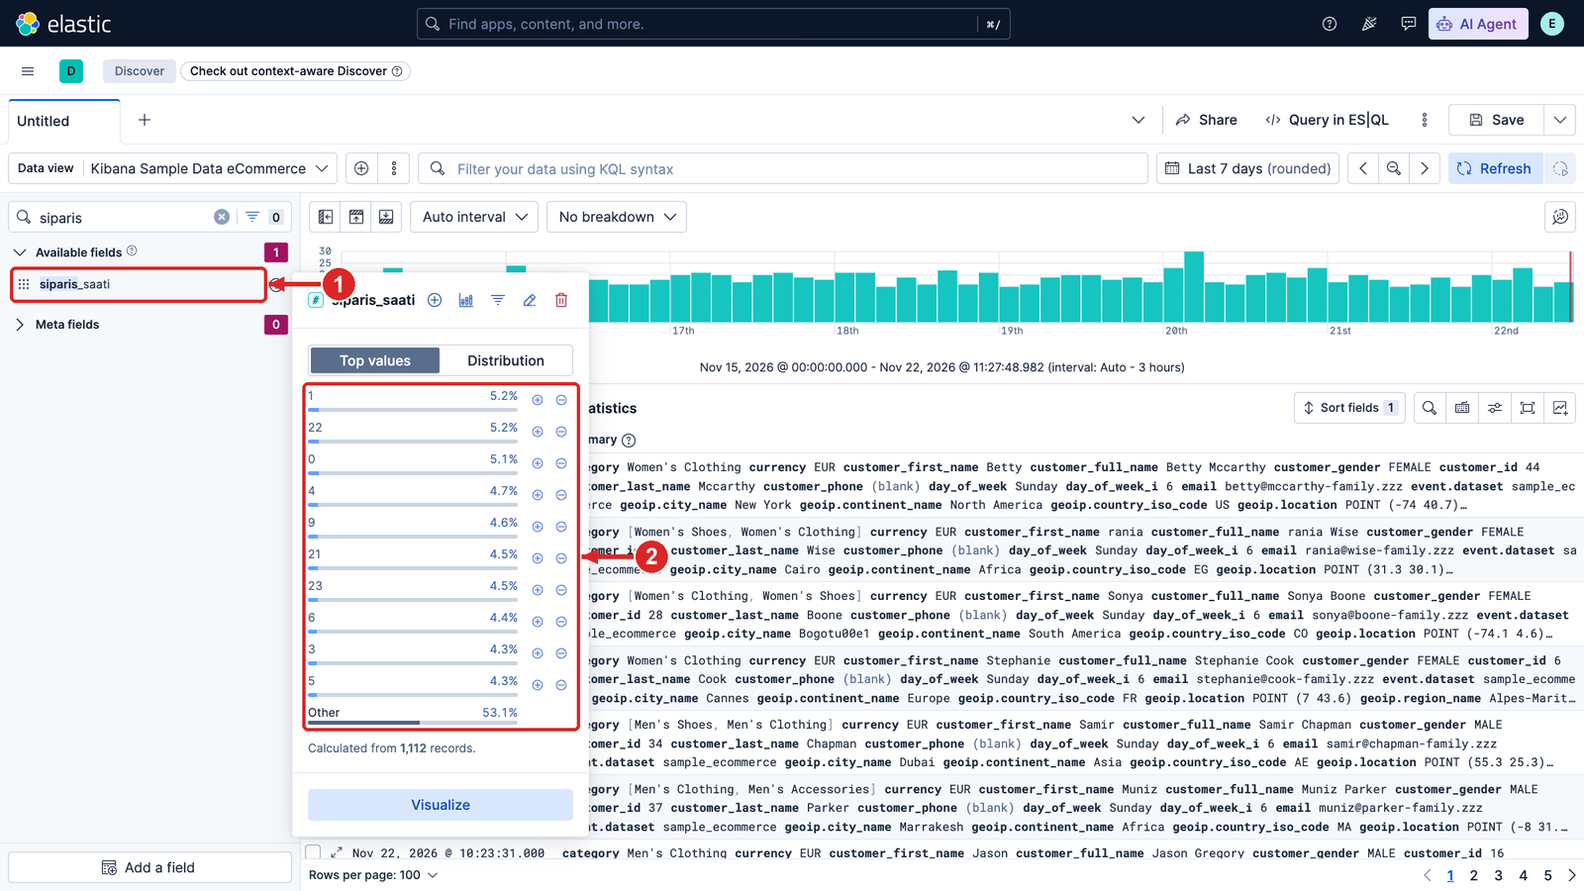
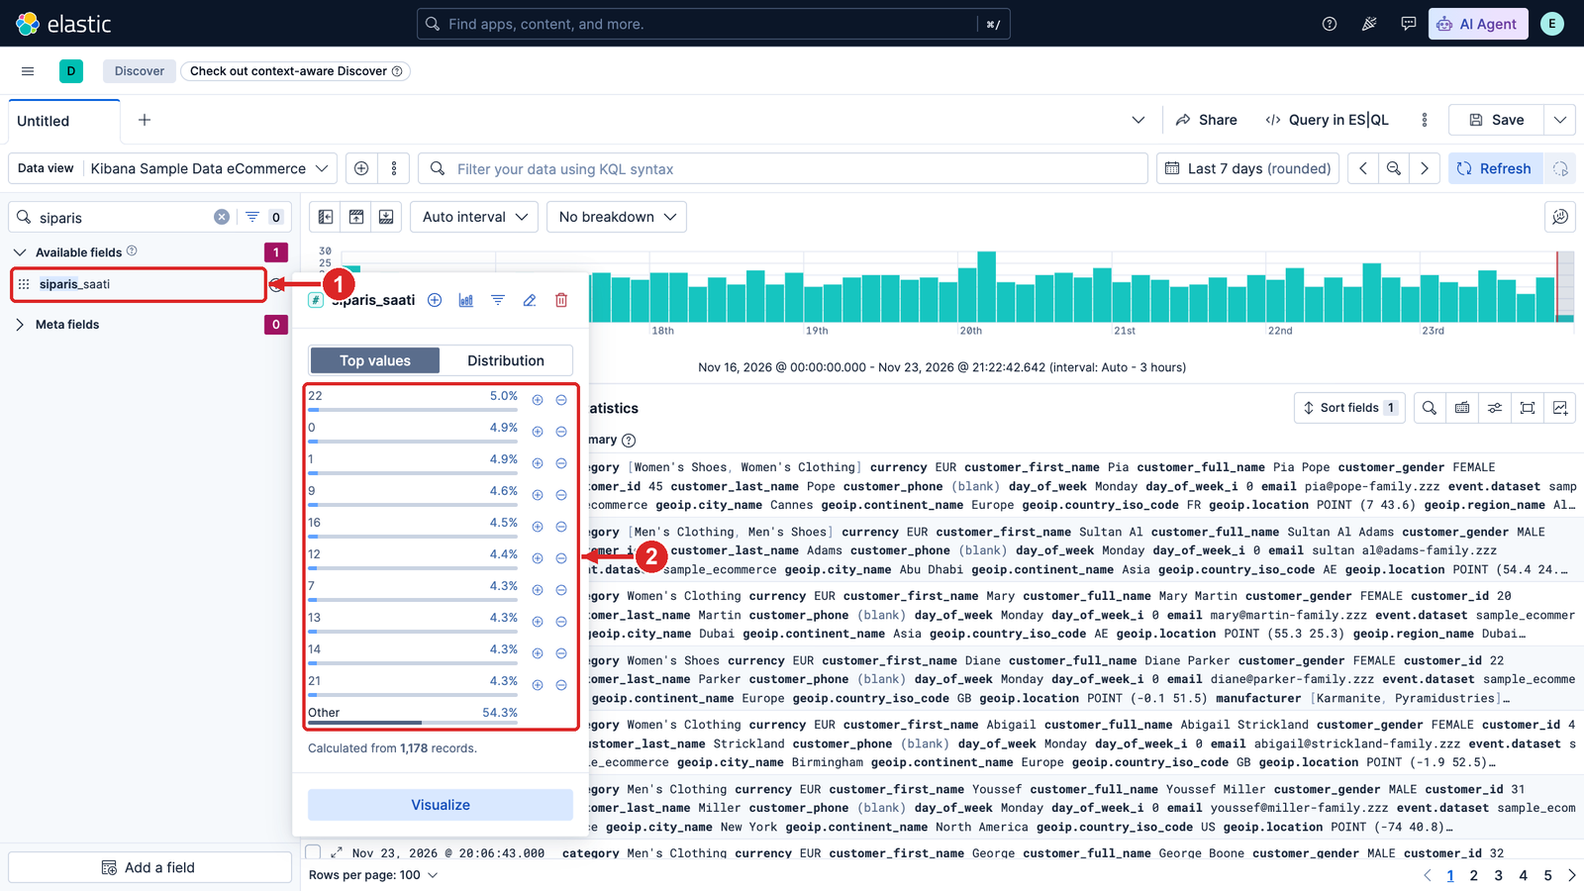
docs+test(LAB-07): question-led steps; three more Lens panels for the dashboard
- README in the same layout as LAB-02..06: five-item intro, concept bullets
  (no table), every step opens with a question, short bold items.
  "kova" replaced with bucket.
- Step 4: new collapsible box "Panoya üç panel daha": Günlük ciro (Line,
  date histogram order_date, Sum taxful_total_price), Ortalama sepet (Metric,
  Average), Cinsiyete göre sipariş (Pie, Top values customer_gender, Count),
  each added from the dashboard via Add > Visualization and Save to library,
  then the dashboard saved with four panels. Four new marked screenshots.
- teardown.sh also deletes the three library Lens objects; README cleanup
  output updated with the real output and a note on optional lines.
- kibana_shots.py: new flow lab07ek; works whether the dashboard opens in
  view or edit mode.

Checked: readme_komut_denetimi AYNI (18/18); link_kontrol 0; README rendered
with the GitHub markdown API (boxes opened) and read.
Test on 34.141.96.128: new teardown run (dashboard + 3 lens + runtime field
+ data view + index -> 200), then README runner PASS=12 FAIL=0, then UI flows
in README order: lab07 (Lens, breakdown, save, dashboard), lab07ek (3 panels,
dashboard panel count 4), lab07canli (auto refresh on, 897 hits),
lab07runtime (siparis_saati). Twelve screenshots retaken. Lab left installed.

diff --git a/scripts/screenshots/kibana_shots.py b/scripts/screenshots/kibana_shots.py
@@ -1328,7 +1328,73 @@ def lab18_pdf(page):
 
 
 # Yeni numarali lab akislari; "eski_" ile baslayanlar yeniden yazilacak eski lablarin kaynagidir.
-FLOWS = {"sunum": sunum, "lab01": lab01, "lab02": lab02, "lab04": lab04, "lab07": lab07, "lab07canli": lab07canli, "lab07runtime": lab07runtime, "lab21": lab21,
+
+def lab07ek(page):
+    """LAB-07 Adim 4 ek ornekler: Satis ozeti panosuna Lens ile uc panel (cizgi, metric, pasta)."""
+    lab = "LAB-07"
+    page.goto(BASE + "/app/dashboards#/list", wait_until="domcontentloaded"); settle(page, 5)
+    page.get_by_text("Satış özeti", exact=True).first.click(); settle(page, 6)
+    page.locator('[data-test-subj="dateRangePickerControlButton"], [data-test-subj="superDatePickerShowDatesButton"]').first.click(); time.sleep(1.5)
+    page.locator('[data-test-subj="dateRangePickerPresetItem-Last_7_days"], [data-test-subj="superDatePickerCommonlyUsed_Last_7 days"]').first.click(); settle(page, 4)
+    if not page.locator('[data-test-subj="dashboardAddTopNavButton"]').count():  # pano zaten duzenleme modunda olabilir
+        page.locator('[data-test-subj="dashboardEditMode"]').first.click(timeout=15000); settle(page, 3)
+
+    def yeni_panel():
+        page.locator('[data-test-subj="dashboardAddTopNavButton"]').first.click(); time.sleep(2)
+        page.locator('[data-test-subj="create-action-Visualization"]').first.click(); settle(page, 8)
+        for txt in ("Don't show again", "Got it", "Dismiss"):
+            try: page.get_by_text(txt).first.click(timeout=1200)
+            except Exception: pass
+
+    def tur(ad):
+        page.locator('[data-test-subj="lnsChartSwitchPopover"]').first.click(); time.sleep(1.5)
+        page.locator(f'[data-test-subj="lnsChartSwitchPopover_{ad}"]').first.click(); time.sleep(3)
+
+    def boyut(panel, islem, field):
+        page.locator(f'[data-test-subj="{panel}"] [data-test-subj="lns-empty-dimension"]').first.click(); time.sleep(2)
+        page.locator(f'[data-test-subj="lns-indexPatternDimension-{islem}"]').first.click(); time.sleep(1.5)
+        if field:
+            cb = page.locator('[data-test-subj="indexPattern-dimension-field"] input').first
+            cb.click(); cb.fill(field); time.sleep(1); page.keyboard.press("Enter"); time.sleep(3)
+        page.locator('[data-test-subj="lns-indexPattern-dimensionContainerBack"]').first.click(); settle(page, 4)
+
+    def kaydet(baslik, ad, isaretler):
+        page.mouse.move(800, 60); time.sleep(1)
+        shoot(page, lab, ad, isaretler + [(("testsubj", "lnsApp_saveButton"), len(isaretler) + 1, "down")])
+        page.locator('[data-test-subj="lnsApp_saveButton"]').first.click(); time.sleep(2)
+        page.locator('[data-test-subj="savedObjectTitle"]').fill(baslik)
+        page.locator('[data-test-subj="confirmSaveSavedObjectButton"]').first.click(); settle(page, 8)
+
+    # a) Gunluk ciro: cizgi grafik
+    yeni_panel(); tur("line")
+    boyut("lnsXY_xDimensionPanel", "date_histogram", "order_date")
+    boyut("lnsXY_yDimensionPanel", "sum", "taxful_total_price")
+    kaydet("Günlük ciro", "08-lens-gunluk-ciro", [
+        (("testsubj", "lnsChartSwitchPopover"), 1, "down"),
+        (("testsubj", "lnsXY_xDimensionPanel"), 2, "left"),
+        (("testsubj", "lnsXY_yDimensionPanel"), 3, "left")])
+    # b) Ortalama sepet: metric
+    yeni_panel(); tur("lnsMetric")
+    boyut("lnsMetric_primaryMetricDimensionPanel", "average", "taxful_total_price")
+    kaydet("Ortalama sepet", "09-lens-ortalama-sepet", [
+        (("testsubj", "lnsChartSwitchPopover"), 1, "down"),
+        (("testsubj", "lnsMetric_primaryMetricDimensionPanel"), 2, "left")])
+    # c) Cinsiyete gore siparis: pasta
+    yeni_panel(); tur("pie")
+    boyut("lnsPie_sliceByDimensionPanel", "terms", "customer_gender")
+    boyut("lnsPie_sizeByDimensionPanel", "count", None)
+    kaydet("Cinsiyete göre sipariş", "10-lens-cinsiyet-pasta", [
+        (("testsubj", "lnsChartSwitchPopover"), 1, "down"),
+        (("testsubj", "lnsPie_sliceByDimensionPanel"), 2, "left"),
+        (("testsubj", "lnsPie_sizeByDimensionPanel"), 3, "left")])
+    # Pano: dort panel, kaydet
+    page.locator('[data-test-subj="dashboardQuickSaveMenuItem"]').first.click(); settle(page, 5)
+    page.mouse.move(800, 60); time.sleep(1)
+    n = page.locator('[data-test-subj="dashboardPanel"]').count()
+    print("panel sayisi:", n)
+    shoot(page, lab, "11-pano-dort-panel", [(("css", '[data-test-subj="dashboardPanel"]'), 1, "right")])
+
+FLOWS = {"sunum": sunum, "lab01": lab01, "lab02": lab02, "lab04": lab04, "lab07": lab07, "lab07canli": lab07canli, "lab07runtime": lab07runtime, "lab07ek": lab07ek, "lab21": lab21,
          "lab14": lab14, "lab10": lab10, "lab12_upload": lab12_upload, "lab16": lab16, "lab16_2": lambda page: lab16(page, "2"), "lab16_pano": lab16_pano, "lab16_kaydet": lab16_kaydet, "lab24_izleme": lab24_izleme, "lab14_ingest_arayuz": lab14_ingest_arayuz, "lab18_harita": lab18_harita, "lab27": lab27, "lab27_pano": lambda page: lab27(page, "pano"), "lab27_mailpit": lambda page: lab27(page, "mailpit"), "lab27_connector": lambda page: lab27(page, "connector"), "lab27_pdf": lambda page: lab27(page, "pdf"), "lab18_kural": lab18_kural, "lab18_aktif": lab18_aktif, "lab18_rapor": lab18_rapor, "lab18_pdf": lab18_pdf, "eski_lab04": eski_lab04, "eski_alarm": eski_alarm, "eski_fleet": eski_fleet,
          "eski_3node": eski_3node}
 

diff --git a/labs/LAB-07-aggregation-lens/README.md b/labs/LAB-07-aggregation-lens/README.md
@@ -8,11 +8,11 @@
 
 ## Bu lab ne öğretiyor?
 
-Arama "hangi document'ler?" sorusunu cevaplar; rapor ise "kaç tane, toplam ne kadar, hangi grupta,
-hangi gün?" diye sorar. Elasticsearch bu soruları document'leri tek tek döndürmeden, aggregation ile
-hesaplar. Bu labda aynı e-ticaret verisinde ciro, kategori bazında ortalama sepet ve günlük satış
-çıkaracak; bir e-ticaret sitesindeki filtre panelini kuracak ve sonucu Lens ile bir panoya koyacağız.
-Son iki adımda canlı bir sipariş akışını son 15 dakikada izleyecek ve veriyi panoya hazırlayacağız.
+- Tek sayılar: ciro, ortalama sepet, farklı müşteri (metric aggregation)
+- Gruplamak: kategori ve gün bazında (bucket ve iç içe aggregation)
+- E-ticaret filtre paneli: `post_filter`
+- Lens ile grafik ve pano
+- Gerçek zamanlı izleme; pano için veri hazırlama (runtime field)
 
 ---
 
@@ -28,15 +28,13 @@ cd ~/elastic/labs/LAB-07-aggregation-lens
 
 ---
 
-## Kavramlar: iki tür aggregation
+## Kavramlar
 
-| Tür | Ne yapar | Örnek |
-|---|---|---|
-| Metric | Bir sayı hesaplar | `sum` (toplam), `avg` (ortalama), `cardinality` (farklı değer sayısı) |
-| Bucket | Document'leri gruplara (bucket) ayırır | `terms` (değere göre), `date_histogram` (zamana göre), `range` (aralığa göre) |
-
-Bucket'ların içine metric konur: "her kategori için ortalama sepet". Aggregation `keyword`, sayı ve
-tarih field'larında çalışır; `text` field'ında çalışmaz, çünkü metin token'lara bölünmüştür ve bütün değer tek parça olarak saklanmaz.
+- **aggregation:** document'leri tek tek döndürmeden hesap yapar: kaç tane, toplam, hangi grupta
+- **metric:** bir sayı hesaplar: `sum` (toplam), `avg` (ortalama), `cardinality` (farklı değer sayısı)
+- **bucket:** document'leri gruplara ayırır: `terms` (değere göre), `date_histogram` (zamana göre)
+- **iç içe:** bucket'ın içine metric konur: "her kategori için ortalama sepet"
+- **hangi field?** `keyword`, sayı, tarih; `text` field'da çalışmaz (metin token'lara bölünmüştür)
 
 ---
 
@@ -46,8 +44,8 @@ Bu labda `http` bloklarını Kibana › Dev Tools'a, `bash` bloklarını termina
 
 ### 1. Tek sayılar: metric aggregation
 
-Toplam ciro, ortalama sepet ve kaç farklı müşteri olduğu. `size: 0` document listesini döndürmez;
-yalnız hesap sonucu gelir:
+**Soru: Toplam ciro, ortalama sepet ve kaç farklı müşteri var?** `size: 0` document listesini döndürmez; yalnız hesap
+sonucu gelir:
 
 ```http
 GET /kibana_sample_data_ecommerce/_search?filter_path=aggregations
@@ -77,13 +75,12 @@ GET /kibana_sample_data_ecommerce/_search?filter_path=aggregations
 }
 ```
 
-Her aggregation'a bir ad verilir (`ciro`, `ort_sepet`, `musteri`); yanıt aynı adlarla gelir.
-`cardinality` yaklaşık sayar: milyonlarca farklı değerde bellek harcamamak için az bir hata payını
-kabul eder; küçük veride sonuç kesindir.
+- **Ad:** her aggregation'a bir ad verilir (`ciro`, `ort_sepet`, `musteri`); yanıt aynı adlarla gelir.
+- **`cardinality`:** yaklaşık sayar; milyonlarca değerde bellek harcamamak için az hata payı kabul eder, küçük veride kesindir.
 
 ### 2. Gruplamak: bucket ve iç içe aggregation
 
-En çok sipariş alan üç kategori ve her birinde ortalama sepet:
+**Soru: Hangi kategori en çok sipariş alıyor, sepetleri ne kadar?** En çok sipariş alan üç kategori ve ortalama sepetleri:
 
 ```http
 GET /kibana_sample_data_ecommerce/_search?filter_path=aggregations
@@ -134,14 +131,12 @@ GET /kibana_sample_data_ecommerce/_search?filter_path=aggregations
 }
 ```
 
-- `terms` field değerine göre gruplar ve en kalabalık `size` grubu döndürür. `category.keyword`
-  kullanılır: gruplama tam değerle yapılır.
-- `doc_count`: gruptaki sipariş sayısı. İçteki `ort_sepet` yalnız o grubun document'leriyle hesaplanır.
-- `sum_other_doc_count`: listeye girmeyen gruplardaki document sayısı. `doc_count_error_upper_bound`:
-  çok shard'lı index'te sayımın en fazla ne kadar eksik olabileceği. Her shard kendi en iyi
-  gruplarını hesaplar, koordinatör node bunları birleştirir; tek shard'da hata 0'dır.
+- **`terms`:** değere göre gruplar, en kalabalık `size` grubu döndürür; tam değer için `category.keyword`.
+- **`doc_count`:** gruptaki sipariş sayısı; içteki `ort_sepet` yalnız o grubun document'leriyle hesaplanır.
+- **`sum_other_doc_count`:** listeye girmeyen gruplardaki document sayısı.
+- **`doc_count_error_upper_bound`:** çok shard'da sayımın en fazla ne kadar eksik olabileceği; tek shard'da 0.
 
-Zamana göre gruplamak için `date_histogram`. Son yedi günün günlük sipariş sayısı ve cirosu:
+**Zamana göre: `date_histogram`.** Son yedi günün günlük sipariş sayısı ve cirosu:
 
 ```http
 GET /kibana_sample_data_ecommerce/_search?filter_path=aggregations.gun.buckets.key_as_string,aggregations.gun.buckets.doc_count
@@ -195,16 +190,15 @@ GET /kibana_sample_data_ecommerce/_search?filter_path=aggregations.gun.buckets.k
 }
 ```
 
-Örnek verinin tarihleri yükleme gününe göre kaydırıldığı için sizin tarih ve sayılarınız farklı
-olur; yedi gün, gün başına 140-160 sipariş görürsünüz. `now-7d/d` "yedi gün önce, günün başına
-yuvarlanmış" demektir.
+- **Sayılar sizde farklı:** örnek verinin tarihleri yükleme gününe göre kayar; gün başına 140-160 sipariş görürsünüz.
+- **`now-7d/d`:** "yedi gün önce, günün başına yuvarlanmış".
 
 ### 3. Filtre paneli: seçilen marka listeyi daraltmasın
 
-E-ticaret sitesinde "shirt" arayan kullanıcı soldaki listeden bir marka seçer. Sonuçlar o markaya
-daralmalı, ama marka listesi bütün markaları ve sayılarını göstermeye devam etmeli; yoksa kullanıcı
-başka markayı seçemez. `post_filter` tam bunu yapar: aggregation hesaplandıktan **sonra** yalnız
-sonuç listesine uygulanır.
+**Soru: Kullanıcı bir marka seçince marka listesi neden daralmamalı?** "shirt" arayan kullanıcı soldan bir marka
+seçer: sonuçlar daralmalı, ama marka listesi bütün markaları göstermeye devam etmeli; yoksa başka markayı seçemez.
+
+**`post_filter`:** aggregation hesaplandıktan **sonra** yalnız sonuç listesine uygulanır:
 
 ```http
 GET /kibana_sample_data_ecommerce/_search?filter_path=hits.total.value,aggregations.marka.buckets
@@ -250,14 +244,14 @@ GET /kibana_sample_data_ecommerce/_search?filter_path=hits.total.value,aggregati
 }
 ```
 
-- `hits.total.value` (503): yalnız seçilen markanın shirt siparişleri; sonuç listesi daraldı.
-- `marka`: "shirt" arayan bütün siparişlerde markalar; seçim listeyi daraltmadı. Uygulama bu
+- **`hits.total.value` (503):** yalnız seçilen markanın shirt siparişleri; sonuç listesi daraldı.
+- **`marka`:** "shirt" arayan bütün siparişlerde markalar; seçim listeyi daraltmadı. Uygulama bu
   sayıları filtre panelinde, sonuçları ortada gösterir.
-- Aynı filtre `query` içine konsaydı marka listesinde yalnız Elitelligence kalırdı.
+- **`query` içinde olsaydı:** marka listesinde yalnız Elitelligence kalırdı.
 
 ### 4. Lens ile pano
 
-Aynı soruyu tıklayarak grafiğe ve panoya çevirelim.
+**Soru: Aynı soruyu kod yazmadan grafiğe ve panoya nasıl çeviririz?** Lens ile, tıklayarak.
 
 1. Discover'da `Kibana Sample Data eCommerce` data view'ını ve **Last 7 days** zaman aralığını seçin.
    Varsayılan **Last 15 minutes** aralığında grafik boş kalır.
@@ -285,14 +279,54 @@ Aynı soruyu tıklayarak grafiğe ve panoya çevirelim.
 
 ![Pano: 8 Save, 9 eklenen panel](../../assets/screenshots/LAB-07/05-dashboard.png)
 
-Pano kaydedildikten sonra **Dashboards** listesinden açılır; zaman aralığı değişince bütün paneller
-birlikte güncellenir. Aynı yolla ciro ya da günlük satış panelleri eklenir: Lens'te dikey eksene
-`taxful_total_price` field'ını sürükleyip **Sum** seçmek "kategori bazında ciro" grafiğini verir.
+- **Pano:** **Dashboards** listesinden açılır; zaman aralığı değişince bütün paneller birlikte güncellenir.
+- **Başka panel:** dikey eksene `taxful_total_price` sürükleyip **Sum** seçmek "kategori bazında ciro" grafiğini verir.
+
+<details>
+<summary><strong>Panoya üç panel daha: günlük ciro, ortalama sepet, cinsiyete göre sipariş</strong></summary>
+
+Tek grafik tek soruya cevap verir; panonun değeri birkaç soruyu yan yana görmektir. "Satış özeti" panosuna üç panel
+ekleyin. Her panel için:
+
+1. **Dashboards › Satış özeti**'ni açın; zaman aralığı **Last 7 days**
+2. **Edit**, sonra **Add › Visualization**: Lens, örnek verinin data view'ıyla açılır
+
+**a) Günlük ciro: çizgi grafik** (soru: ciro zamanla nasıl değişiyor?)
+
+1. Grafik türü (1): **Line**
+2. **Horizontal axis** (2): **Date histogram**, field `order_date`
+3. **Vertical axis** (3): **Sum**, field `taxful_total_price`
+4. **Save to library** (4): başlık `Günlük ciro`, **Save**; panoya dönülür
+
+![Lens çizgi grafik: 1 grafik türü, 2 yatay eksen, 3 dikey eksen, 4 Save to library](../../assets/screenshots/LAB-07/08-lens-gunluk-ciro.png)
+
+**b) Ortalama sepet: tek sayı** (soru: bir sipariş ortalama ne kadar?)
+
+1. Grafik türü (1): **Metric**
+2. **Primary metric** (2): **Average**, field `taxful_total_price`
+3. **Save to library** (3): başlık `Ortalama sepet`, **Save**
+
+![Lens metric: 1 grafik türü, 2 primary metric, 3 Save to library](../../assets/screenshots/LAB-07/09-lens-ortalama-sepet.png)
+
+**c) Cinsiyete göre sipariş: pasta** (soru: siparişlerin yüzde kaçı kimden?)
+
+1. Grafik türü (1): **Pie**
+2. **Slice by** (2): **Top values**, field `customer_gender`
+3. **Metric** (3): **Count**
+4. **Save to library** (4): başlık `Cinsiyete göre sipariş`, **Save**
+
+![Lens pasta: 1 grafik türü, 2 slice by, 3 metric, 4 Save to library](../../assets/screenshots/LAB-07/10-lens-cinsiyet-pasta.png)
+
+Sağ üstten **Save** ile panoyu kaydedin. Pano dört panelle açılır; zaman aralığını değiştirince hepsi birlikte güncellenir:
+
+![Satış özeti panosu: dört panel](../../assets/screenshots/LAB-07/11-pano-dort-panel.png)
+
+</details>
 
 ### 5. Gerçek zamanlı: canlı sipariş akışı
 
-Yazılan bir document hemen aranmaz; Elasticsearch varsayılan olarak saniyede bir **refresh** yapar
-ve document ancak o zaman aramaya girer. Canlı veri için bir index açıp bunu görün:
+**Soru: "Gerçek zamanlı" ne kadar gerçek zamanlı?** Yazılan document ancak **refresh** ile (varsayılan saniyede bir)
+aramaya girer. Canlı veri için bir index açıp bunu görün:
 
 ```bash
 curl -s -u elastic:'DevOps2026!' -X PUT 'http://127.0.0.1:9200/analiz-canli' -H 'Content-Type: application/json' -d '{
@@ -314,11 +348,11 @@ Beklenen çıktı:
 {"count":2}
 ```
 
-İlk document yazıldı ama `_count` 0 döndü: refresh henüz olmadı. `refresh=wait_for` isteği document aramaya
-girene kadar bekler; ardından iki document de görünür. "Gerçek zamanlı" bu yüzden "yaklaşık 1 saniye içinde"
-demektir.
+- **`_count` 0:** ilk document yazıldı ama refresh henüz olmadı.
+- **`refresh=wait_for`:** document aramaya girene kadar bekler; ardından iki document de görünür.
+- **Sonuç:** "gerçek zamanlı" yaklaşık 1 saniye içinde demektir.
 
-Şimdi son 15 dakikayı saniyede bir siparişle doldurun ve 10 dakika sürecek canlı akışı arka planda başlatın:
+**Canlı akışı başlatın:** son 15 dakika saniyede bir siparişle dolar, 10 dakika sürecek akış arka planda başlar:
 
 ```bash
 python3 scripts/canli_siparis.py gecmis
@@ -331,7 +365,7 @@ Beklenen çıktı:
 gecmis 15 dakika: 900 siparis, hata: False
 ```
 
-Gerçek zamanlı panonun sorusu: son 15 dakikada dakika başına kaç sipariş geldi?
+**Son 15 dakikada dakika başına kaç sipariş geldi?**
 
 ```bash
 curl -s -u elastic:'DevOps2026!' 'http://127.0.0.1:9200/analiz-canli/_search?size=0' -H 'Content-Type: application/json' -d '{
@@ -345,31 +379,30 @@ Beklenen çıktı:
 [23,60,60,60,60,60,60,60,60,60,60,60,60,60,60,37]
 ```
 
-Her dakika 60 sipariş; ilk ve son kova yarımdır, çünkü 15 dakikalık pencere dakika sınırına denk gelmez.
-Sorguyu birkaç saniye sonra tekrar çalıştırın: canlı akış son kovayı büyütür (sayılar sizde farklıdır).
+- **Her dakika 60:** ilk ve son bucket yarımdır; 15 dakikalık pencere dakika sınırına denk gelmez.
+- **Tekrar çalıştırın:** canlı akış son bucket'ı büyütür (sayılar sizde farklıdır).
 
-Aynı akışı Kibana'da izlemek için bir data view açın:
+**Kibana'da izlemek için data view açın:**
 
 ```http
 POST kbn:/api/data_views/data_view
 { "data_view": { "id": "analiz-canli", "title": "analiz-canli", "name": "Canlı siparişler", "timeFieldName": "@timestamp" } }
 ```
 
-Discover'da `Canlı siparişler` data view'ını seçin, zaman aralığını **Last 15 minutes** (1) yapın. Zaman
-kutusunu yeniden açıp **Settings** (2) sekmesinde **Refresh every** anahtarını (3) açın ve değeri
-`10 seconds` yapın:
+1. Discover'da `Canlı siparişler` data view'ı, zaman aralığı **Last 15 minutes** (1)
+2. Zaman kutusunu yeniden açın: **Settings** (2) → **Refresh every** anahtarı (3), değer `10 seconds`
 
 ![Otomatik yenileme: 2 Settings, 3 Refresh every anahtarı](../../assets/screenshots/LAB-07/06a-canli-ayar.png)
 
-Histogram (4) her 10 saniyede kendiliğinden yenilenir ve sağ uçtaki çubuk büyür:
+3. Histogram (4) her 10 saniyede yenilenir, sağ uçtaki çubuk büyür:
 
 ![Canlı izleme: 1 Last 15 minutes, 4 dakikalık histogram](../../assets/screenshots/LAB-07/06-canli-discover.png)
 
 
 ### 6. Pano için veri hazırlama: doğru tip ve runtime field
 
-Grafikler aggregation'dan beslenir ve aggregation `text` field'da çalışmaz. `category` hem `text` hem
-`category.keyword` olarak index'lenmiştir; ikisiyle de gruplamayı deneyin:
+**Soru: Grafik neden bazı field'larla çizilmez?** Grafikler aggregation'dan beslenir, aggregation `text` field'da çalışmaz.
+`category` hem `text` hem `category.keyword` olarak index'lenmiş; ikisiyle de gruplamayı deneyin:
 
 ```bash
 for f in category category.keyword; do
@@ -385,9 +418,9 @@ Beklenen çıktı:
 {"field":"category.keyword","status":null,"ilk":"Men's Clothing","hata":null}
 ```
 
-Lens bu yüzden `category` yerine `Top values of category.keyword` kullanır. Veride olmayan bir değer
-gerekiyorsa (örneğin siparişin saati) veriyi yeniden yazmadan **runtime field** tanımlanır; değer sorgu
-anında script ile hesaplanır:
+- **Lens** bu yüzden `category` yerine `Top values of category.keyword` kullanır.
+
+**Veride olmayan değer: runtime field.** Örneğin siparişin saati; veri yeniden yazılmaz, değer sorgu anında script ile hesaplanır:
 
 ```http
 GET kibana_sample_data_ecommerce/_search?size=0&filter_path=aggregations
@@ -401,28 +434,27 @@ GET kibana_sample_data_ecommerce/_search?size=0&filter_path=aggregations
 {"aggregations":{"saat":{"doc_count_error_upper_bound":0,"sum_other_doc_count":4048,"buckets":[{"key":16,"doc_count":211},{"key":3,"doc_count":210},{"key":1,"doc_count":206}]}}}
 ```
 
-Saat UTC'dir. Aynı field'ı data view'a eklerseniz Discover ve Lens onu sıradan bir field gibi görür:
+**Data view'a ekleyin** (saat UTC): Discover ve Lens onu sıradan bir field gibi görür:
 
 ```http
 POST kbn:/api/data_views/data_view/ff959d40-b880-11e8-a6d9-e546fe2bba5f/runtime_field
 { "name": "siparis_saati", "runtimeField": { "type": "long", "script": { "source": "emit(doc['order_date'].value.getHour())" } } }
 ```
 
-Discover'da `Kibana Sample Data eCommerce` data view'ını açın; field listesinde `siparis_saati` (1) görünür,
-tıklayınca en sık saatler gelir (2):
+Discover'da `Kibana Sample Data eCommerce` data view'ında `siparis_saati` (1) görünür; tıklayınca en sık saatler (2):
 
 ![Runtime field: 1 siparis_saati field'ı, 2 en sık saatler](../../assets/screenshots/LAB-07/07-runtime-field.png)
 
-Runtime field her sorguda yeniden hesaplanır; sık kullanılan bir değer büyük veride yavaşlatır. O zaman
-field mapping'e eklenip veri ingest pipeline ile yazılırken doldurulur.
+- **Bedeli:** runtime field her sorguda yeniden hesaplanır; sık kullanılan değer büyük veride yavaşlatır.
+- **O zaman:** field mapping'e eklenir, veri ingest pipeline ile yazılırken doldurulur.
 
 ---
 
 ## Temizlik
 
 Örnek veri sonraki lablarda kullanılır, silinmez. Bu labın oluşturduğu panoyu, canlı akışı, `analiz-canli`
-index'ini ve data view'ını, örnek data view'a eklenen `siparis_saati` field'ını siler. Lens grafiği panonun
-içinde kaydedildiği için onunla birlikte gider:
+index'ini ve data view'ını, örnek data view'a eklenen `siparis_saati` field'ını siler. İlk Lens grafiği panonun
+içinde kaydedildiği için onunla birlikte gider; kutudaki üç panel kütüphaneye kaydedildiği için ayrıca silinir:
 
 ```bash
 ./teardown.sh
@@ -432,11 +464,16 @@ Beklenen çıktı:
 
 ```text
 dashboard 'Satış özeti' -> 200
+lens 'Günlük ciro' -> 200
+lens 'Ortalama sepet' -> 200
+lens 'Cinsiyete göre sipariş' -> 200
 canli siparis akisi -> durduruldu
 runtime field siparis_saati -> 200
 data view analiz-canli -> 200
 index analiz-canli -> 200
 ```
+
+`lens` satırları yalnız kutudaki paneller eklendiyse, `canli siparis akisi` satırı yalnız akış hâlâ çalışıyorsa görünür.
 
 Labı aynı sunucuda yeniden yapacaksanız başlamadan önce `./teardown.sh` çalıştırın; README'deki sayılar temiz
 başlangıca göredir.
